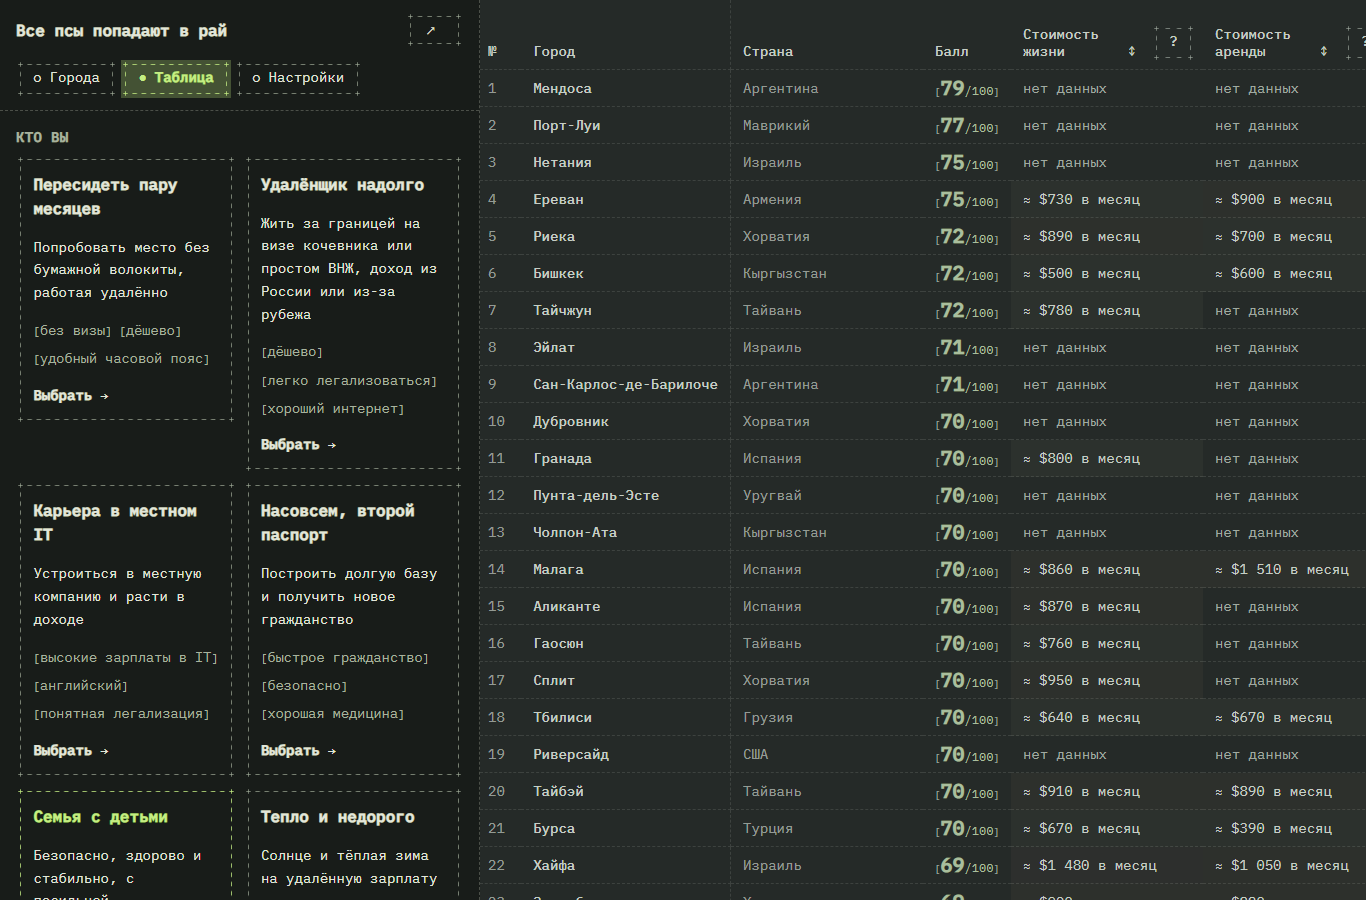
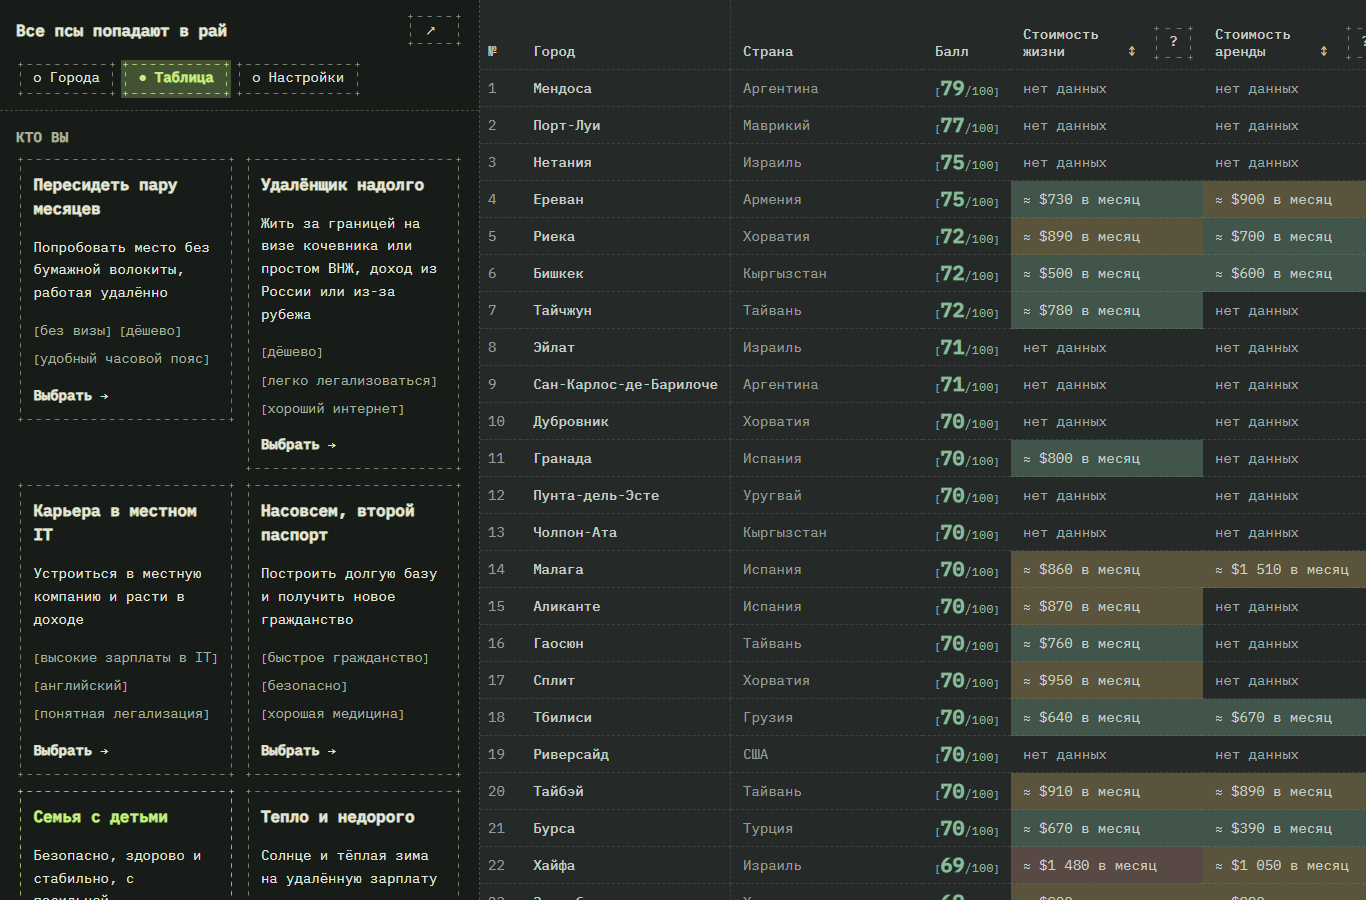
fix(ui): distinguish table status fills

diff --git a/src/widgets/city-table/ui/city-table.svelte b/src/widgets/city-table/ui/city-table.svelte
@@ -7,11 +7,11 @@
   import type { Tone } from '@/shared/lib/tone';
   import { cn } from '@/shared/lib/utils';
 
-  /** В плотной таблице цвет — слабая заливка, значения читаются нейтральным текстом. */
+  /** В плотной таблице цвет — различимая приглушённая заливка, значения читаются нейтральным текстом. */
   const CELL_TONES: Record<Tone, string> = {
-    good: 'bg-primary/5',
-    ok: 'bg-warning/5',
-    bad: 'bg-destructive/5',
+    good: 'bg-primary/30',
+    ok: 'bg-warning/30',
+    bad: 'bg-destructive/30',
     neutral: '',
   };
 
@@ -88,9 +88,9 @@
     surface: '#303833',
     text: '#c6cec5',
     muted: '#a0aaa1',
-    accent: '#a9be9d',
-    warning: '#c7b88b',
-    danger: '#cda49a',
+    accent: '#89ba9b',
+    warning: '#d4b56a',
+    danger: '#d09289',
   }}
   class="h-full"
 >
